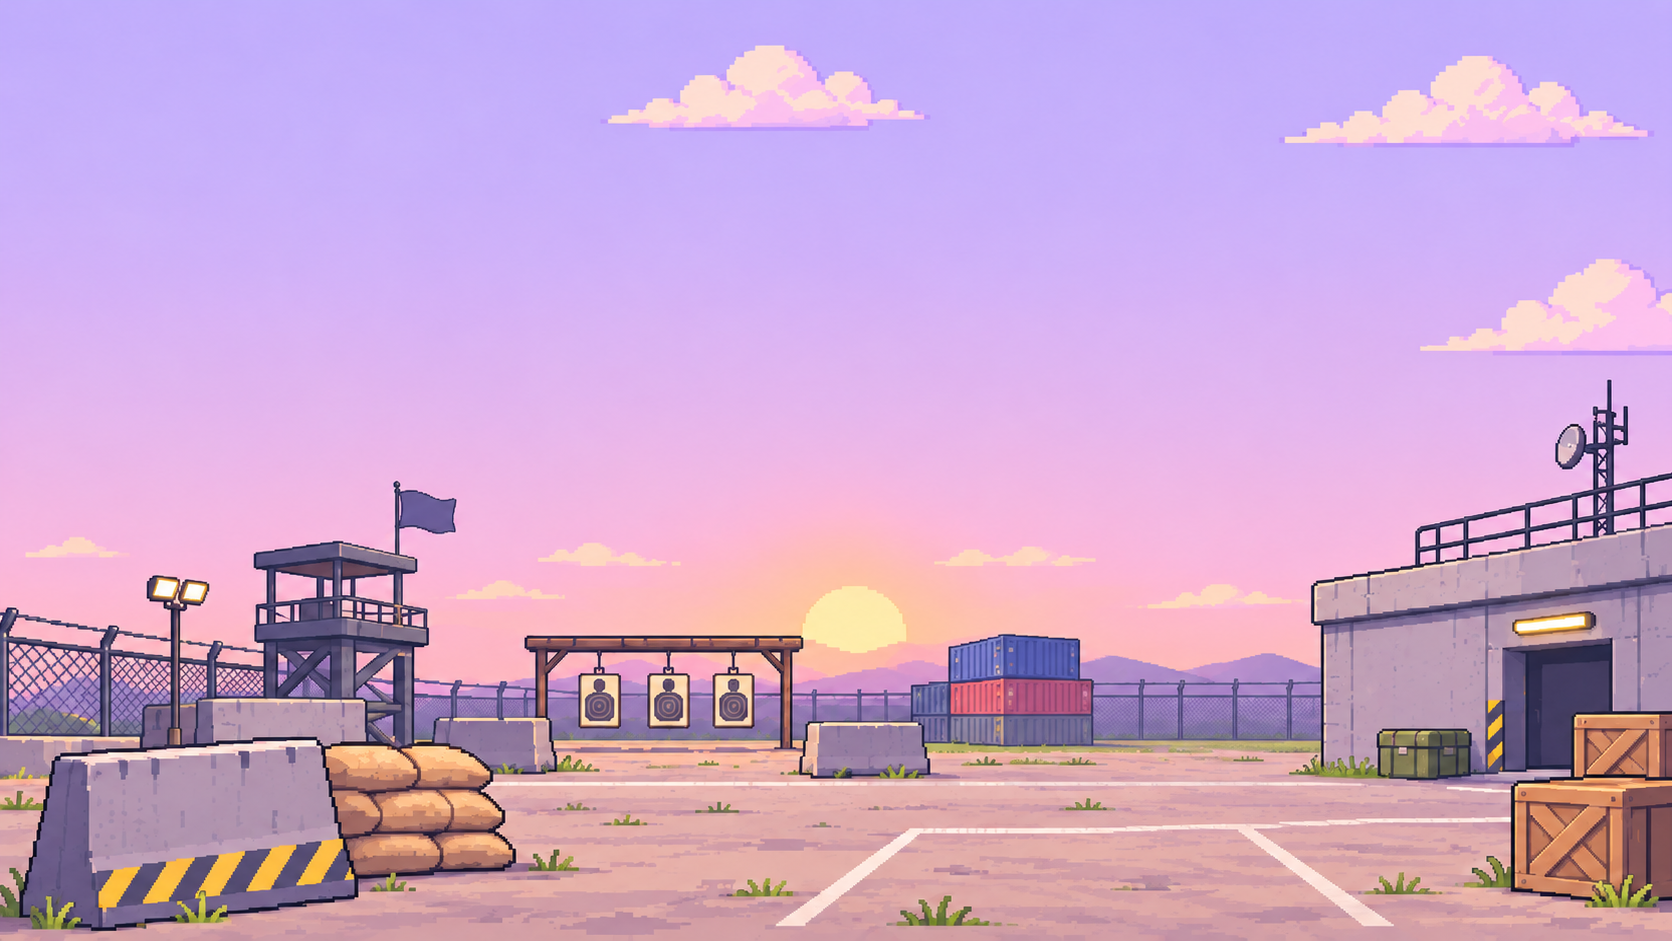
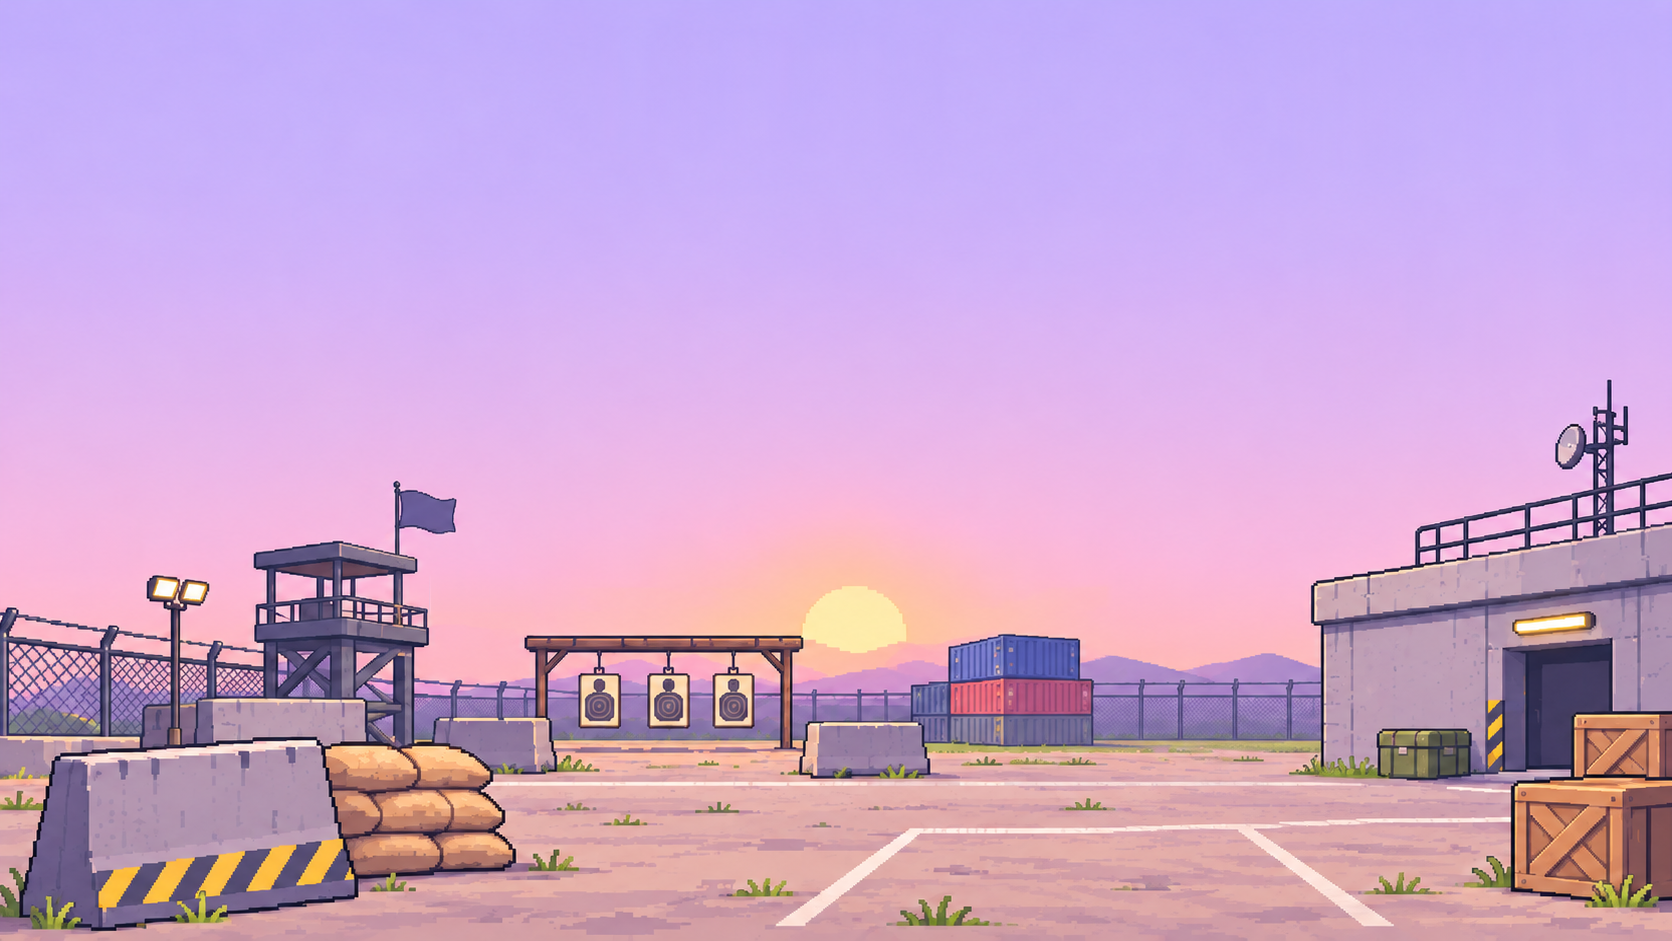
fix: remove stationary clouds from all home scenes

diff --git a/_layouts/home.html b/_layouts/home.html
@@ -8,13 +8,14 @@ layout: compress
     <meta name="viewport" content="width=device-width, initial-scale=1">
     {% seo %}
     {% assign home_asset_version = site.time | date: '%s' %}
+    {% assign scene_art_revision = '?v=clear-sky' %}
     {% assign scene_parts = 'dawn,day,evening,night' | split: ',' %}
     {% assign home_versions = 'ver1,ver2' | split: ',' %}
     {% for version in home_versions %}
       {% assign scene_path = '/assets/img/sa-home/' %}
       {% if version == 'ver1' %}{% assign scene_path = scene_path | append: 'semi-2d/' %}{% endif %}
       {% for part in scene_parts %}
-        <link rel="preload" as="image" href="{{ scene_path | append: 'scene-' | append: part | append: '.webp' | relative_url }}" data-scene-preload="{{ part }}" data-version="{{ version }}">
+        <link rel="preload" as="image" href="{{ scene_path | append: 'scene-' | append: part | append: '.webp' | relative_url }}{{ scene_art_revision }}" data-scene-preload="{{ part }}" data-version="{{ version }}">
       {% endfor %}
     {% endfor %}
     <script src="{{ '/assets/js/sa-home-theme.js' | relative_url }}?v={{ home_asset_version }}"></script>

diff --git a/_includes/sa-home/world.html b/_includes/sa-home/world.html
@@ -7,8 +7,8 @@
     {% if version == 'ver1' %}{% assign scene_path = scene_path | append: 'semi-2d/' %}{% endif %}
     <div class="sa-scene-bank" data-version="{{ version }}">
     {% for part in scene_parts %}
-      {% assign scene_url = scene_path | append: 'scene-' | append: part | append: '.webp' | relative_url %}
-      <div class="sa-scene-frame" data-scene="{{ part }}" data-version="{{ version }}" style="--sa-scene-image: url('{{ scene_url }}')">
+      {% assign scene_url = scene_path | append: 'scene-' | append: part | append: '.webp' | relative_url | append: scene_art_revision %}
+      <div class="sa-scene-frame" data-scene="{{ part }}" data-version="{{ version }}">
         <img
           class="sa-world-distant"
           src="{{ scene_url }}"

diff --git a/assets/css/sa-home-theme.css b/assets/css/sa-home-theme.css
@@ -25,8 +25,6 @@
     position: absolute;
     inset: 0;
     overflow: clip;
-    /* The left quarter of every scene has uninterrupted sky in these rows. */
-    background: var(--sa-scene-image) left center / 400% var(--sa-art-height) no-repeat;
     mask-image: linear-gradient(to bottom,
       black calc(50% - .118 * var(--sa-art-height)),
       transparent calc(50% - .102 * var(--sa-art-height)));
